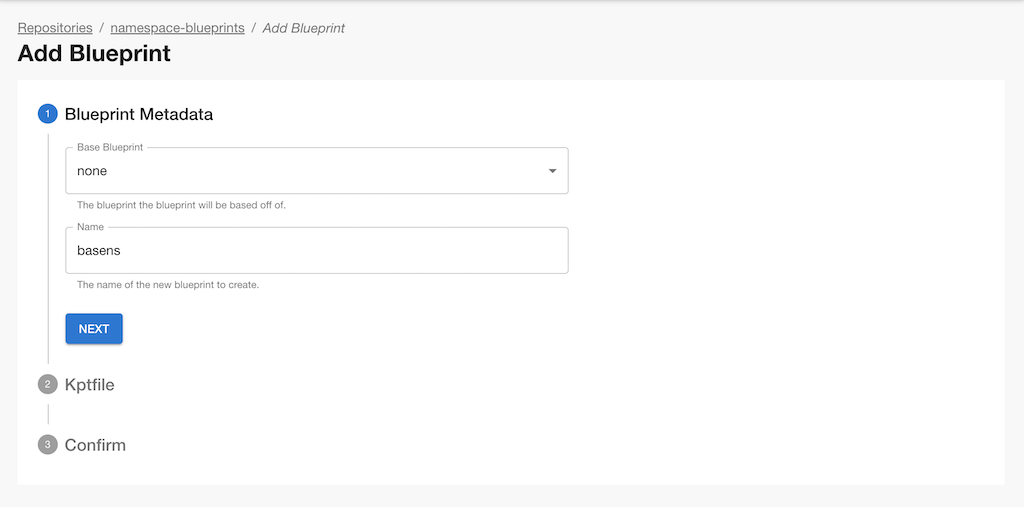
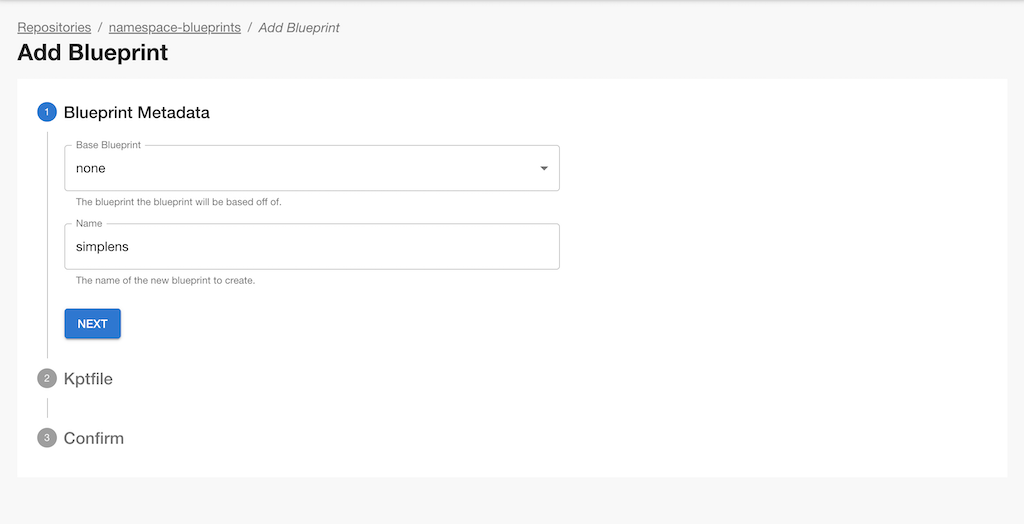
docs: update namespace provisioning ui guide (#3313)
* docs: update namespace provisioning ui guide

* minor updates to the text

* additional updates to the text

diff --git a/site/guides/namespace-provisioning-ui.md b/site/guides/namespace-provisioning-ui.md
@@ -1,30 +1,30 @@
 # Namespace provisioning example using UI
 
-In this guide, we will use the package orchestration UI to:
+In this guide, we will use the Config as Data UI to:
 
 - Register blueprint and deployment repositories
-- Create a `kpt` package from scratch in blueprint repo
+- Create a `kpt` blueprint package from scratch in a blueprint repository
 - Create a deployable instance of the `kpt` package
-- Deploy the package in a kubernetes cluster
+- Deploy the package in a Kubernetes cluster
 
 ## Prerequisites
 
-Before we begin, ensure that you are able to access the Configuration as Data
-UI. The UI is provided as [Backstage](https://backstage.io) plugin and can be
-accessed at `[BACKSTAGE_BASE_URL]/config-as-data`.
+Before we begin, ensure that you can access the Config as Data UI. The UI is
+provided as a [Backstage](https://backstage.io) plugin and can be accessed at
+`[BACKSTAGE_BASE_URL]/config-as-data`.
 
-_If you don't have a UI installed, follow the steps in
+_If you don't have a UI installed, follow the steps in the
 [UI installation guide](guides/porch-ui-installation.md) to install the UI._
 
 ## Repository Registration
 
 ### Registering blueprint repository
 
-To register a blueprint repo, start by clicking `Register Repository` button in
-the upper right corner. Enter the following details in the Register Repository
-flow:
+To register a blueprint repository, start by clicking the `Register Repository`
+button in the upper right corner. Enter the following details in the Register
+Repository flow:
 
-- In `Repository Details`, the Repository URL is the clone url from your
+- In `Repository Details`, the Repository URL is the clone URL from your
   repository. Branch and directory can be left blank. Branch will default to
   `main` and directory will default to `/`.
 - In `Repository Authentication`, you`ll need to use the GitHub Personal Access
@@ -37,16 +37,16 @@ back to the Repositories view.
 
 ### Registering deployment repository
 
-To register a deployment repo, start by clicking `Register Repository` button in
-the upper right corner. Enter the following details in the Register Repository
-flow:
+To register a deployment repository, start by clicking the `Register Repository`
+button in the upper right corner. Enter the following details in the Register
+Repository flow:
 
-- In `Repository Details`, the Repository URL is the clone url from your
+- In `Repository Details`, the Repository URL is the clone URL from your
   repository. Branch and Directory can be left blank. Branch will default to
-  `main` and directory will default to `/`.
-- In `Repository Authentication`, either create a new secret, or optionally,
+  `main`, and directory will default to `/`.
+- In `Repository Authentication`, either create a new secret, or optionally
   select the same secret in the Authentication Secret dropdown you created for
-  registering blueprint repo.
+  registering blueprint repository.
 - In `Repository Content`, be sure to select Deployments.
 - In `Upstream Repository`, select from the already registered Blueprint
   repositories.
@@ -59,29 +59,29 @@ back to the Repositories view.
 Now that we have our repositories registered, we are ready to create our first
 blueprint using the UI.
 
-- Click on `Blueprints` tab to see the blueprint repositories. Select a
-  blueprint repo where you want to add new blueprint by clicking on it.
-- Clicking on it will take you to a new screen where you can see the
-  packages/blueprints that exist in the selected repository. If this is a new
-  repo, list will be empty.
-- Click on `Add Blueprint` button in the upper right corner to create a new
+- Click the `Blueprints` tab to see the blueprint repositories. Click the row of
+  the blueprint repository where you want to add the new blueprint to.
+- Clicking the row will take you to a new screen where you can see the
+  packages/blueprints in the selected repository. If this is a new repository,
+  the list will be empty.
+- Click the `Add Blueprint` button in the upper right corner to create a new
   blueprint.
-- In `Add Blueprint`, create a new blueprint with the name `basens`.
+- In `Add Blueprint`, create a new blueprint with the name `simplens`.
   ![add-blueprint](/static/images/porch-ui/blueprint/add-blueprint.png)
 - After completing the above flow, you`ll be taken to your newly created
   blueprint (see screenshot below). Here you will have a chance to add, edit,
   and remove resources and functions.
   ![new-blueprint](/static/images/porch-ui/blueprint/new-blueprint.png)
-- Clicking on any of the resources on the table (currently the `Kptfile` and
+- Clicking any of the resources on the table (currently the `Kptfile` and
   `ConfigMap`) will show the resource viewer dialog where you can see quick
-  information for each resource, and optionally view the yaml for the resource.
+  information for each resource and view the yaml for the resource.
 - On the blueprint (see the above screenshot), click `Edit` to be able to edit
   the blueprint. After clicking `Edit`, you should see this screen where you
   have an option to add new resources.
   ![add-resources](/static/images/porch-ui/blueprint/edit-new-blueprint.png)
 - Using the `Add Resource` button, add a new Namespace resource. Name the
   namespace `example`.
-- Click on Kptfile resource, add a new mutator
+- Click the Kptfile resource and add a new mutator
   - Search for `namespace` and select `set-namespace` with the latest version
     available for selection.
   - Select `ConfigMap: kptfile.kpt.dev` for the function config
@@ -103,7 +103,7 @@ blueprint using the UI.
 - Using the `Add Resource` button, add a new Resource Quota resource
   - Name the resource `base`
   - Set Max CPU Requests to 40 and Max Memory Requests to 40G
-- Click on the Kptfile resource, add a new mutator
+- Click the Kptfile resource and add a new mutator
   - Search for `replacements` and select `apply-replacements` with the latest
     version available for selection
   - Select the `ApplyReplacements: update-rolebinding` for the function config
@@ -115,7 +115,7 @@ blueprint using the UI.
   to the blueprint screen you started on. Note that the namespace has been
   updated on the resources from the `set-namespace` mutator.
   ![saved-new-blueprint](/static/images/porch-ui/blueprint/saved-new-blueprint.png)
-- Click on the individual resources to see the first class editors.
+- Click the individual resources to see the first class editors.
 - Click Propose to propose the blueprint (button will change to Approve)
 - Click Approve to approve the blueprint
 - Using the breadcrumbs, click back to view your blueprints repository - here
@@ -123,9 +123,10 @@ blueprint using the UI.
   ![finalized-blueprint](/static/images/porch-ui/blueprint/finalized-blueprint.png)
 
 So, with that, we created a blueprint from scratch and published it in blueprint
-repo. You should be able to see the blueprint in the `git` repo as well.
+repository. You should be able to see the blueprint in the `git` repository as
+well.
 
-## Create deployable instance of a blueprint
+## Create a deployable instance of a blueprint
 
 In this section, we will walk through the steps of creating a deployable
 instance of a blueprint.
@@ -133,13 +134,13 @@ instance of a blueprint.
 - Starting on the repository screen, click on `Deployments` tab to list
   deployment repositories (as shown below).
   ![deployment-repos](/static/images/porch-ui/deployment/deployment-repos.png)
-- Select a deployment repository by clicking on it.
+- Select a deployment repository by clicking the row.
   ![deployment-repo-empty](/static/images/porch-ui/deployment/deployment-repo-empty.png)
-- Click on the `Upstream Repository` link to navigate to the blueprints
-  repository and here you should see `basens` blueprint.
+- Click the `Upstream Repository` link to navigate to the blueprints repository
+  and here you should see `simplens` blueprint.
   ![blueprints-list](/static/images/porch-ui/deployment/blueprints-list.png)
-- Click on the `basens` blueprint.
-  ![show-basens-blueprint](/static/images/porch-ui/deployment/show-basens-blueprint.png)
+- Click the `simplens` blueprint.
+  ![show-blueprint](/static/images/porch-ui/deployment/show-blueprint.png)
 - Click the `Deploy` button in the upper right corner to take you to the
   `Add Deployment` flow. Create the new deployment with the name `backend`.
   ![add-deployment](/static/images/porch-ui/deployment/add-deployment.png)
@@ -150,20 +151,20 @@ instance of a blueprint.
 - Using the breadcrumbs, click back the deployments view to see your new
   deployment is added in Draft status.
   ![draft-deployment-screenshot](/static/images/porch-ui/deployment/deployments-list.png)
-- Click into the backend deployment and move the deployment to Proposed then
+- Click into the backend deployment and move the deployment to Proposed, then
   Published by approving the deployment. Optionally, before moving the
   deployment to Published, if you wish to, you can make changes to the
   deployment by adding/removing/updating resources.
   ![draft-deployment](/static/images/porch-ui/deployment/draft-deployment.png)
 - Once the deployment is published, click `Create Sync` to have `Config Sync`
-  sync the deployment to the kubernetes cluster.
+  sync the deployment to the Kubernetes cluster.
   ![published-deployment](/static/images/porch-ui/deployment/published-deployment.png)
-- After a few seconds, you`ll see the Sync status update in the upper right hand
+- After a few seconds, you`ll see the Sync status update in the upper right-hand
   corner.
   ![synced-deployment](/static/images/porch-ui/deployment/synced-deployment.png)
-- If you navigate back to the `deployment` repo, you will see `sync` status next
-  to each deployement instance.
+- If you navigate back to the `deployment` repository, you will see `sync`
+  status next to each deployment instance.
   ![synced-deployment-screenshot](/static/images/porch-ui/deployment/synced-deployment-list.png)
 
 So, this completes our end to end workflow of creating a blueprint from scratch
-and deploying it to a kubernetes cluster using package orchestraction UI.
+and deploying it to a Kubernetes cluster using the Config as Data UI.
